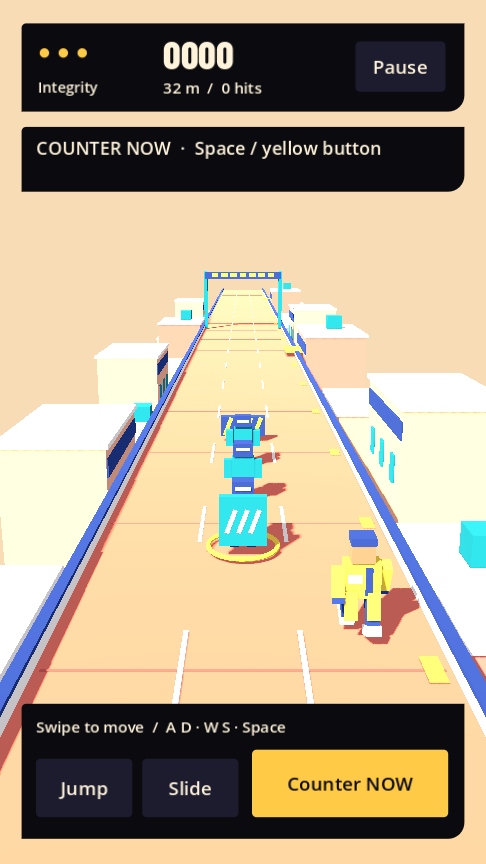
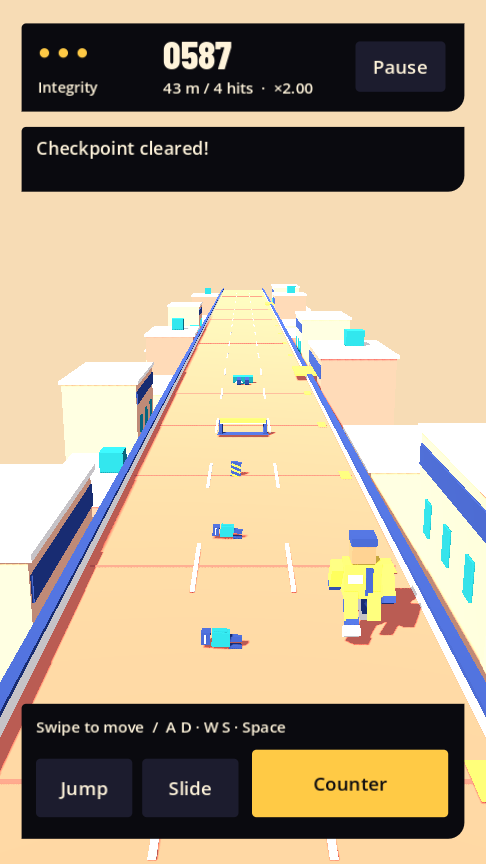
docs: style-slice evidence, refreshed captures, next-slice backlog

diff --git a/docs/NEXT.md b/docs/NEXT.md
@@ -2,16 +2,18 @@
 
 Foundation complete: first physical chain, lifecycle, input routing, procedural art and repeatable verification. The full design remains a roadmap, not an implemented feature list.
 
-1. Human playtest the first shield without coaching. Can players identify the dodge lane, understand the adjacent counter, and repeat it intentionally? Capture specific confusion rather than adding content immediately.
+Resolved since this file was last rewritten: per-run seeds with result-screen replay codes (slice 003), style multiplier with HUD readout, cause-specific failure lines, original favicon + social meta, cross-origin isolation headers, `breakrunState` gated to debug builds, hurdle contact now matches the documented contract.
+
+1. Human playtest the first shield without coaching. Can players identify the dodge lane, understand the adjacent counter, and repeat it intentionally? Capture specific confusion rather than adding content immediately. Also watch whether the style multiplier makes chains feel worth chasing or just noise.
 2. Give the shield a stronger authored wind-up/lunge and the courier a clearer reaching kick. Current box-based limbs are a silhouette scaffold, not final character art. Improve perceived contact before adding particles.
 3. Introduce one jump/slide obstacle as a test-first authored encounter. Add actual lane traversal timing and validate reachability before combining hazards. Current logical lane selection is instantaneous while visual movement interpolates.
-4. Add original or licensed impact/run audio with independent mute. There is no sound in the current slice.
-5. Pool rendered enemy models and materials before increasing population. Current logic is bounded but visuals allocate at each new wave; this is acceptable only at current low population, not a production budget claim.
-6. Select a physical test phone, verify safe-area insets, touch ergonomics, left-handed controls, sustained frame time and thermal behavior. No phone build is presently verified.
-7. Add the other enemy types, boss and upgrades only after the shield interaction passes a human playtest.
+4. Pool rendered enemy models and materials before increasing population. Current logic is bounded but visuals allocate at each new wave; this is acceptable only at current low population, not a production budget claim.
+5. Select a physical test phone, verify safe-area insets, touch ergonomics, left-handed controls, sustained frame time and thermal behavior. No phone build is presently verified.
+6. Add the other enemy types, boss and upgrades only after the shield interaction passes a human playtest.
+7. Style-depth follow-up: the design's "varied actions" rule is currently simplified — combo counts any uninterrupted success, so repeated identical safe actions still grow the multiplier until the cap. Track action types if playtests show farming.
 
-Known scaffold limitations: repeated flat rooftop runway rather than parkour chunks; fixed seed in UI; no persisted scores/settings; reduced-motion toggle only removes kick lean; no input buffer, assist mode, save system, export presets, leaderboard, replay or monetization. The distant decorative gantry remains fixed in the initial presentation and should be moved into the reusable chunk system with future environment work.
+Known scaffold limitations: repeated flat rooftop runway rather than parkour chunks; no input buffer, assist mode, save system, leaderboard, replay or monetization. The result screen shows the seed but there is no seed-entry UI to replay an exact run yet.
 
 Review policy: independent code review cannot be called passed when a provider returns a quota/billing error. Record the actual fallback review result or leave the gate outstanding.
 
-Web-specific follow-ups: no favicon set in project settings yet (default Godot icon is exported); Web Audio and touch ergonomics are untested on real phones; consider narrowing the exported pck further (vercel.json currently ships unthrottled). Also revisit runtime debug hooks (`breakrunState`) and keep them out of any future production build if they are not wanted.
+Web-specific follow-ups: the exported wasm is ~39 MB unstripped (custom stripped templates are future work); Web Audio and touch ergonomics are untested on real phones.

diff --git a/docs/VERIFICATION.md b/docs/VERIFICATION.md
@@ -57,6 +57,16 @@ A visual QC of fresh GL captures flagged three issues; all fixed and re-captured
 
 Post-fix capture QC: no gate remains, obstacles read as separate depth-separated items, no HUD regressions. Remaining noted items: player still sits close to the bottom control bar on short screens (framing test guards the 540x960 baseline only), and the shield robot could use a stronger color identity versus the barricade.
 
+## Style and variety slice (per-run seeds, multiplier, readable failure)
+
+- `test_style_slice.gd` (18 assertions): seed recorded and replayed (same seed → identical distance/score/combo after equal steps), distinct seeds → distinct wave-lane sequences, multiplier growth/cap/reset, reference chain score 50+125+150+262=587, best-combo tracking, and `last_hit_kind` recorded for shield/dummy/barrier/hurdle contact.
+- Contract repair: plan 002 documented "non-evaded hurdle contact still damages" but the shipped `continue` made hurdles harmless. Grounded contact inside the crossing window now trips the runner (airborne/sliding ticks never do); the jump-timing test was moved earlier so the whole crossing is airborne, mirroring an anticipatory jump.
+- Existing exact-score assertions updated for the multiplier (587) in `test_core_updates`, `test_core_regressions`, `test_input_scene`, `capture_scene` and `tools/verify.py`; all other suites unchanged and passing.
+- Presentation verified in fresh GL captures: HUD style readout fits its panel, result screen shows points/metres/(new!), counters/chains/best style, best score, seed, and a cause-specific failure line (custom result capture step added).
+- Full `verify.py --render` pass: 10/10 suites, 162 assertions. Web export rebuilt; exported `index.html` carries the original programmatic icon, favicon links and social meta. The `breakrunState` hook is compiled only into debug builds; release exports no longer ship it.
+- vercel.json now sends COOP/COEP headers to match the export's `ensureCrossOriginIsolationHeaders`; live-header check recorded below after deploy.
+- Not proven: human playtest of the multiplier feel, phone behavior, cross-browser GPU matrix, style variety enforcement (combo counts any successes, not distinct action types — simplification recorded in the plan).
+
 ## Review and publication status
 
 Independent spec-review attempt via delegate_task was blocked by GLM HTTP 429 (billing/credits exhausted). It did not review code. A read-only fallback through the installed Codex CLI failed with HTTP 401 because its refresh token had already been used; no authentication configuration was changed. Neither attempt supplies an independent approval.

diff --git a/README.md b/README.md
@@ -51,13 +51,13 @@ On this Mac, double-click `Launch BREAKRUN.command` to play. After copying this 
 godot --headless --path . --export-release Web
 ```
 
-`export_presets.cfg` targets the no-threads Web export into `web/` with a custom shell in `web_shell/index.html` (progress loader, feature check, DPR-capped canvas sizing, side help panel, touch hints). The build is a static site deployable to any static host (`vercel.json` and `.vercelignore` in this repo target Vercel). Desktop tests do not prove every browser/GPU pair; mobile browser performance in particular is untested.
+`export_presets.cfg` targets the no-threads Web export into `web/` with a custom shell in `web_shell/index.html` (progress loader, feature check, DPR-capped canvas sizing, side help panel, touch hints, social meta). The build is a static site deployable to any static host (`vercel.json` and `.vercelignore` in this repo target Vercel; cross-origin isolation headers are sent to match the export's requirements). The read-only `breakrunState` browser hook is compiled only into debug builds. Desktop tests do not prove every browser/GPU pair; mobile browser performance in particular is untested.
 
 ## Actual running build
 
 ![Actual Godot gameplay](docs/screenshots/gameplay.png)
 
-The first shield is always in the middle lane. Leave that lane as it winds up, then press Space or Counter during the open-ring recovery. Scoring: counter 50, each dummy 100, barricade 150, clean hurdle pass 25. Speed ramps gently with distance and caps at 14 m/s so late runs stay readable. Settings (sound, reduced motion) and best score persist between sessions; jump/slide now gate the low hurdle bars that follow each wave. Runs still reuse the same seed for reproducible playtesting.
+The first shield is always in the middle lane. Leave that lane as it winds up, then press Space or Counter during the open-ring recovery. Base scoring: counter 50, each dummy 100, barricade 150, clean hurdle pass 25. Uninterrupted successes raise a style multiplier (×1.00 to ×3.00, shown in the HUD) that scales every award, and damage resets it — chain reactions are the fastest way to score. Grounded contact with a hurdle now trips you; jump or slide the low bars that follow each wave. Speed ramps gently with distance and caps at 14 m/s so late runs stay readable. Every run draws a fresh seed (shown on the result screen — same seed, same run), while settings (sound, reduced motion) and best score persist between sessions.
 
 ## Layout
 
